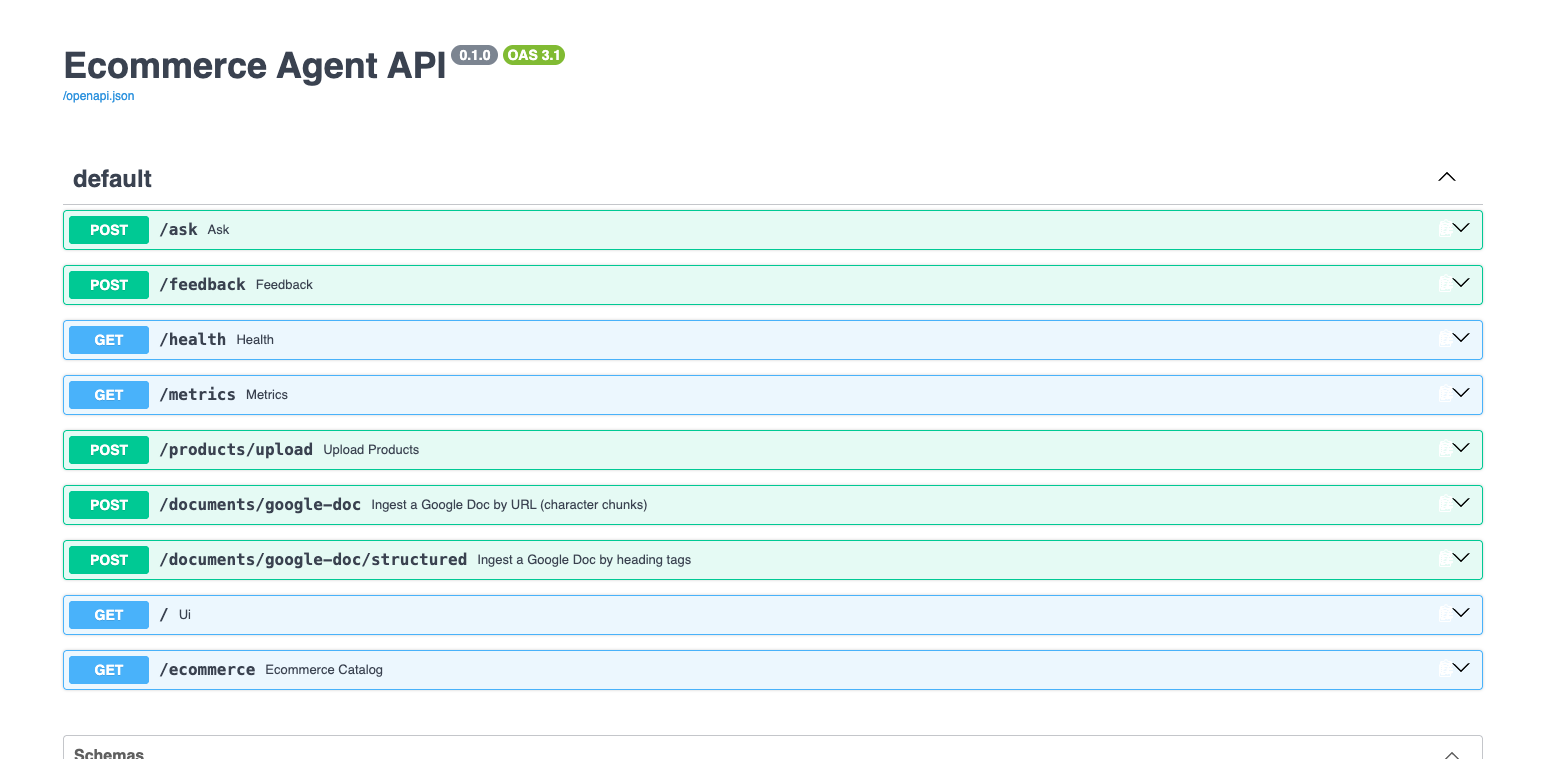
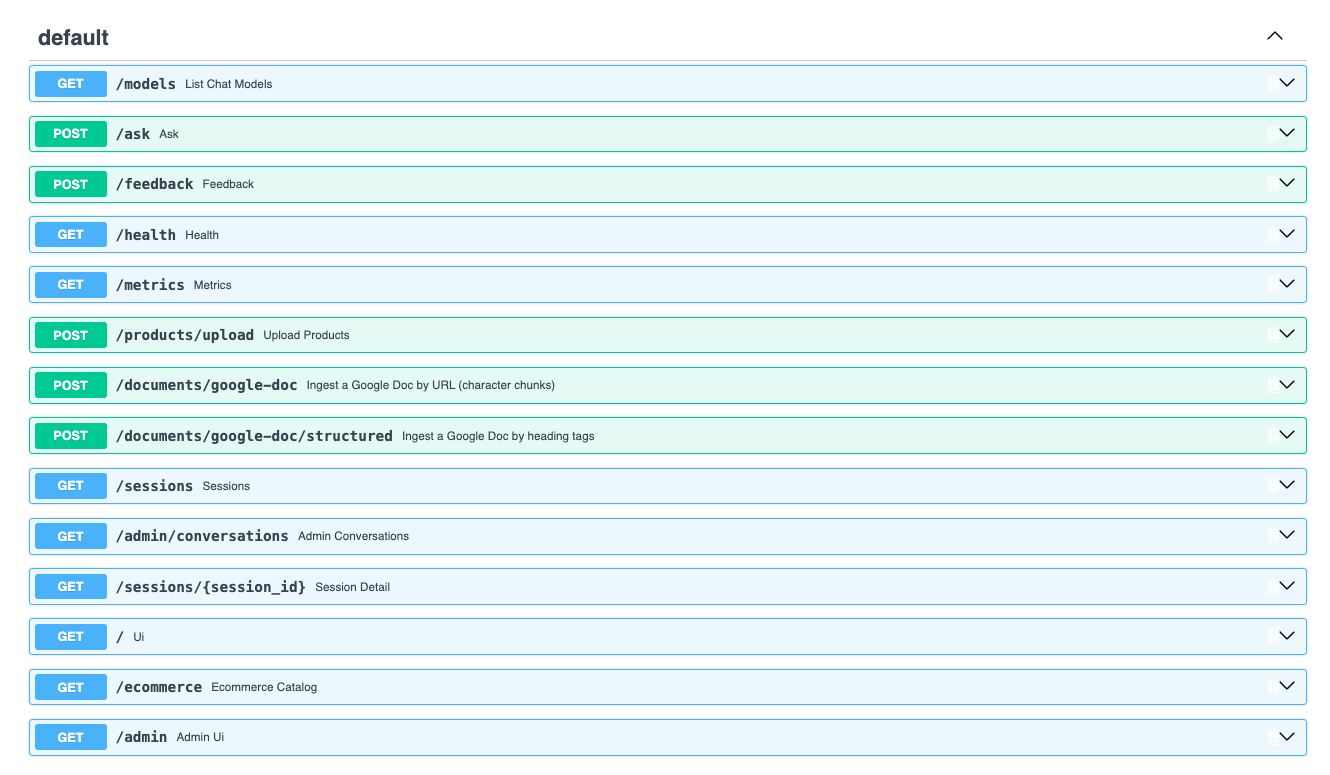
Updated readme images

Changed region(s): [[0.0, 0.0303, 0.9865, 1.0], [0.9248, 0.9697, 0.9556, 1.0]]

diff --git a/README.md b/README.md
@@ -4,6 +4,8 @@ This repository is a **general-purpose knowledge agent**: an API you give docume
 
 It serves FastAPI endpoints. It does not run Postgres, Prometheus, Grafana, MLflow, pgAdmin, or Ollama. Chat UI (`GET /`), admin inbox (`GET /admin`), and a dummy catalog (`GET /ecommerce`) are thin HTML clients on top of those endpoints. As-built layout: `architecture.md`.
 
+[Video walkthrough](https://www.loom.com/share/7ee1564972564712922fe8fcf2772712)
+
 ## Why
 
 Knowledge management is still a bottleneck inside most companies. Policies, FAQs, runbooks, and product facts live in Drive, wikis, and tickets. Search is keyword-shaped; answers depend on whoever remembers where the doc is. New hires and support teams spend time hunting instead of deciding. External customers hit the same wall: they ask questions that are already written down, but the written-down copy is not sitting behind a worker that can retrieve and cite it.
@@ -43,9 +45,28 @@ Demo UIs:
 - `/admin` fetches `/admin/conversations` every 3s while the tab is visible. Opening a row uses `/?session_id=`. 
 - The dummy storefront at `/ecommerce` is only there to show an external client over the mock catalog.
 
-![Chat UI: product recommendations and thumbs feedback](assets/app_ui.png)
-
-![Ecommerce Agent API: ask, feedback, ingest, metrics](assets/app_api.png)
+<table>
+  <tr>
+    <td width="50%">
+      <strong>Chat UI</strong><br>
+      <img src="assets/app_ui.png" alt="Chat UI with product recommendations and feedback">
+    </td>
+    <td width="50%">
+      <strong>API</strong><br>
+      <img src="assets/app_api.png" alt="Knowledge Agent API endpoints">
+    </td>
+  </tr>
+  <tr>
+    <td width="50%">
+      <strong>Production observability</strong><br>
+      <img src="assets/langraph-observability.png" alt="Langfuse production observability traces">
+    </td>
+    <td width="50%">
+      <strong>Experimentation</strong><br>
+      <img src="assets/mlflow-agent-eval.png" alt="MLflow model evaluation comparison">
+    </td>
+  </tr>
+</table>
 
 ## Develop locally
 
